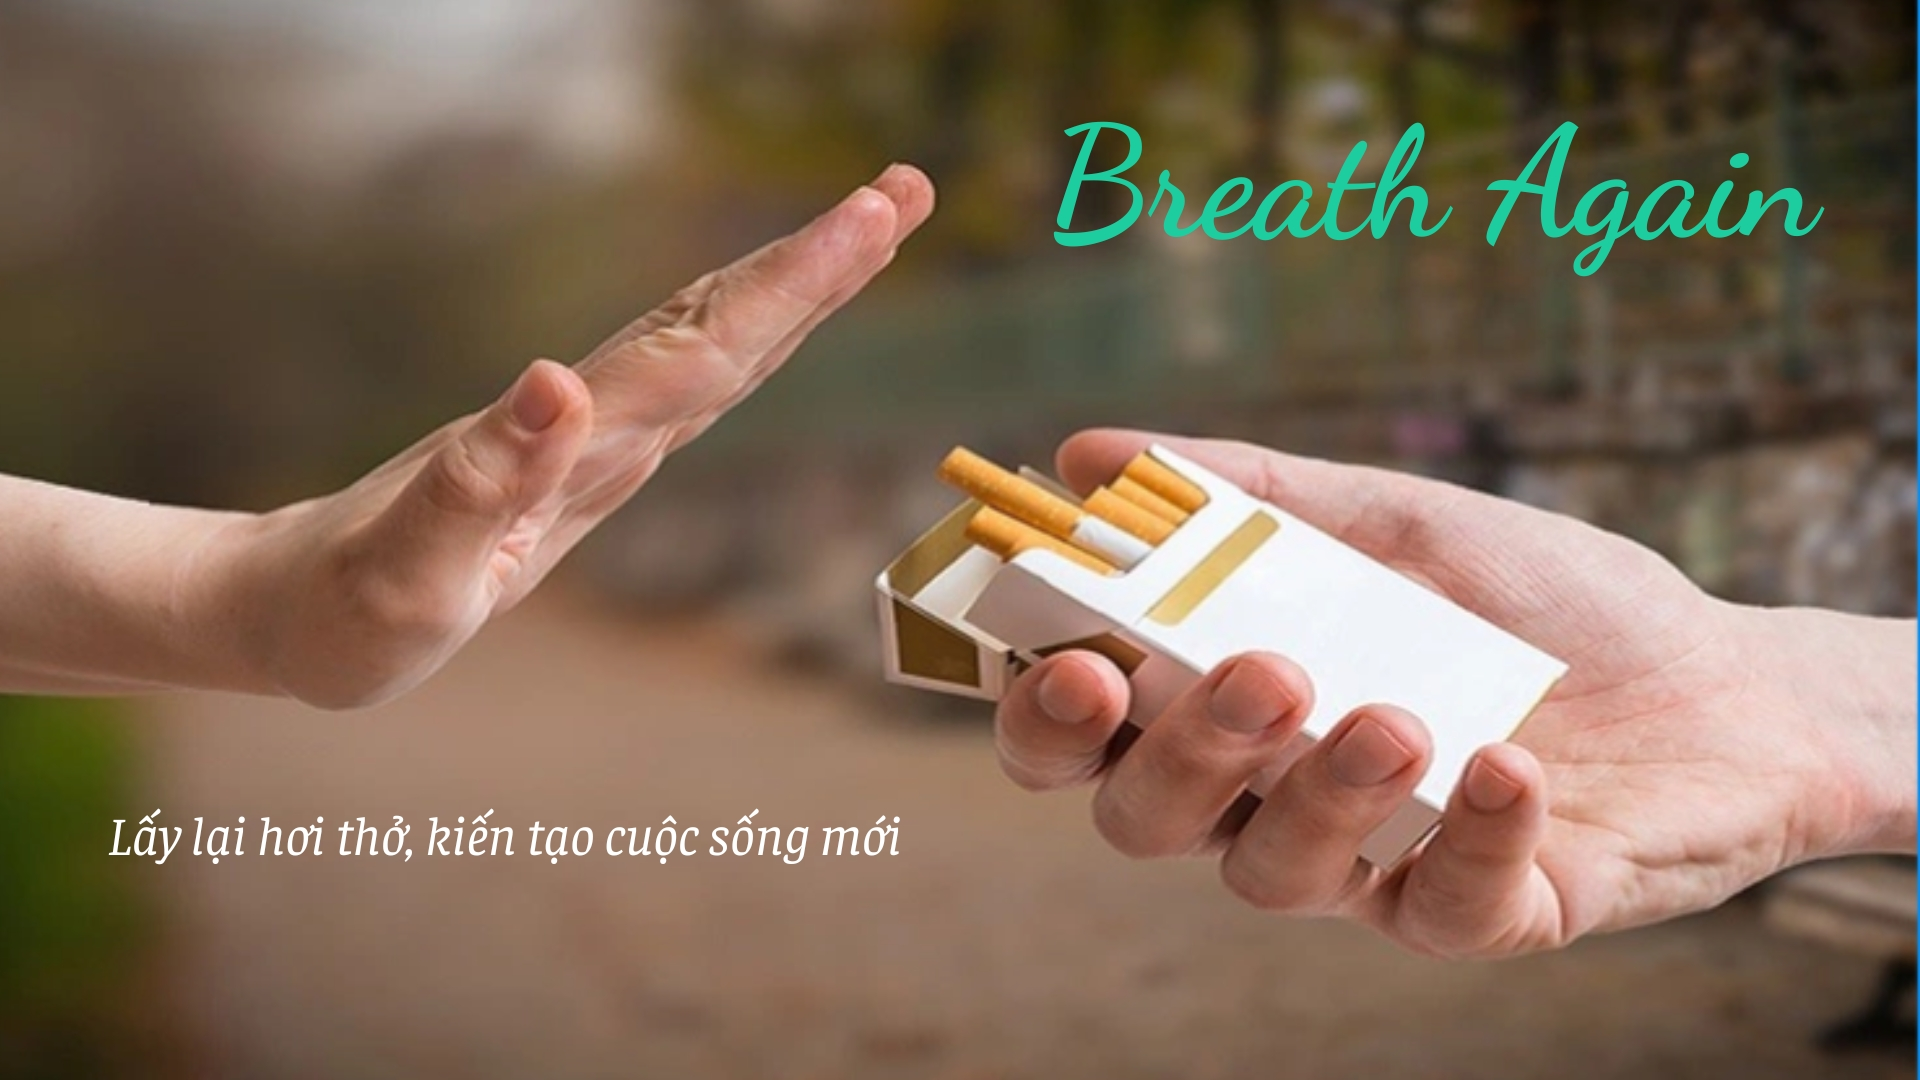
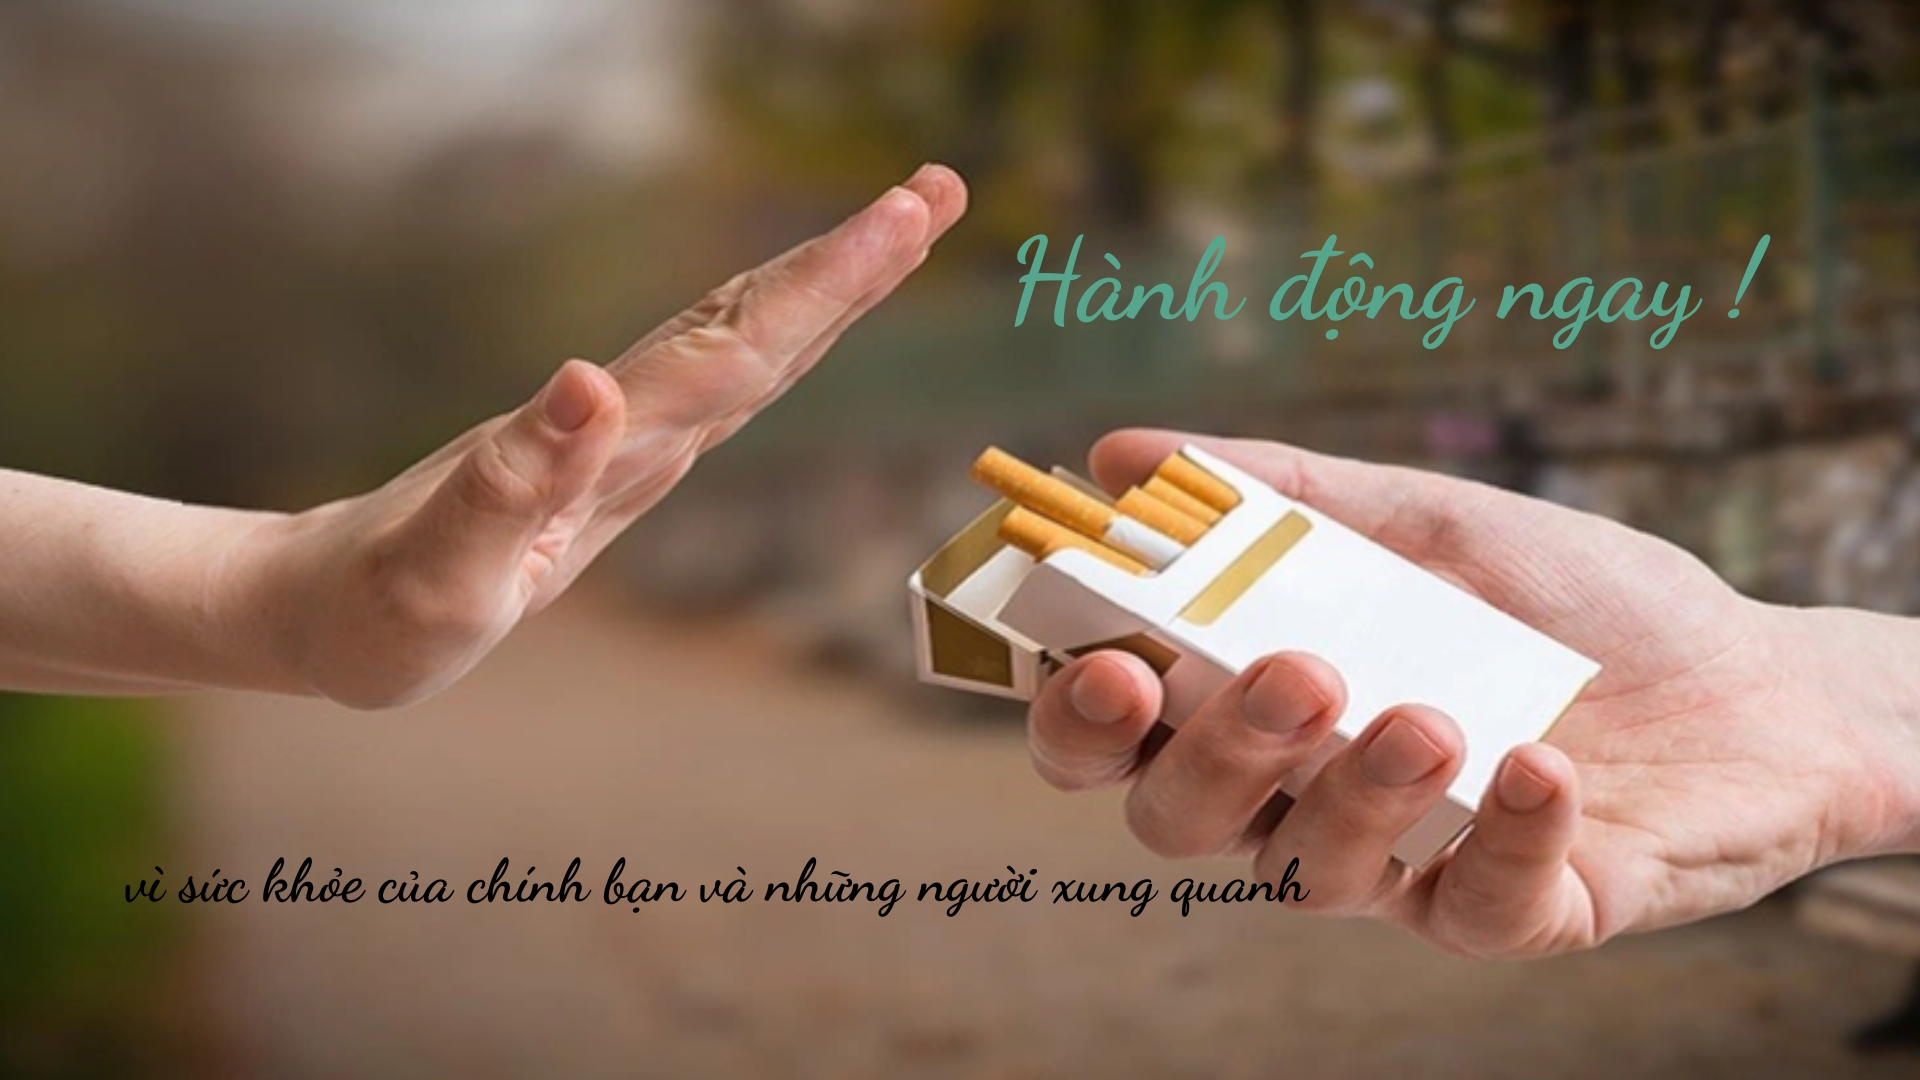
anh 3

diff --git a/FE/test/src/pages/home/HomePage.jsx b/FE/test/src/pages/home/HomePage.jsx
@@ -33,7 +33,7 @@ const HomePage = () => {
                     <Carousel.Item>
                         <img
                             className="d-block w-100"
-                            src="https://github.com/THQuis/SWP391_Group5/blob/main/image/bannerpng.png?raw=true "
+                            src="https://github.com/THQuis/SWP391_Group5/blob/main/image/Thien1.2.jpg?raw=true"
                             alt="Second slide"
                         />
 
@@ -43,6 +43,13 @@ const HomePage = () => {
                             className="d-block w-100"
                             src="https://github.com/THQuis/SWP391_Group5/blob/main/image/Coach.png?raw=true"
                             alt="Third slide"
+                        />
+                    </Carousel.Item>
+                    <Carousel.Item>
+                        <img
+                            className="d-block w-100"
+                            src="https://github.com/THQuis/SWP391_Group5/blob/main/image/Coach.png?raw=true"
+                            alt="Four slide"
                         />
                     </Carousel.Item>
                 </Carousel>
